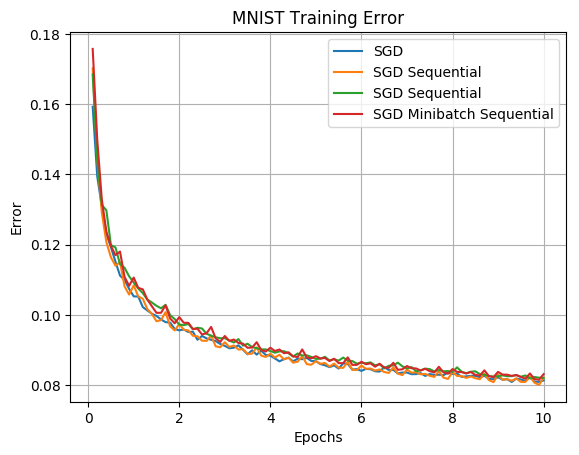
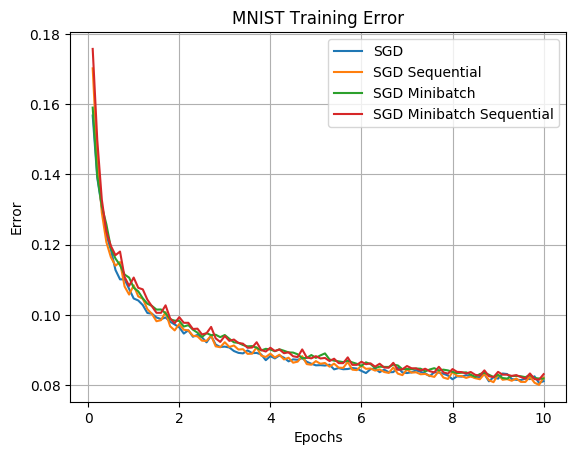
Modified plots

Changed region(s): [[0.1865, 0.4923, 0.9326, 0.8615], [0.1554, 0.1846, 0.1865, 0.4923], [0.6839, 0.1846, 0.8394, 0.2154]]

diff --git a/main.py b/main.py
@@ -187,7 +187,7 @@ if __name__ == "__main__":
     sgd_mini_seq = lambda : sgd_minibatch_sequential_scan(Xs_tr, Ys_tr, gamma, W0, alpha_m, batch_size, num_epochs, monitor_period_m)
 
     algos = [sgd, sgd_seq, sgd_mini, sgd_mini_seq]
-    names = ["SGD", "SGD Sequential", "SGD Minibatch", "SGD Minibatch Sequential"]
+    names = ["SGD Random", "SGD Sequential", "SGD Minibatch", "SGD Minibatch Sequential"]
     models = []
 
     for algo, name in zip(algos, names):
@@ -202,51 +202,50 @@ if __name__ == "__main__":
 
     t = .1 * np.arange(len(models[0])) + .1
 
-    # plot training error as a function of epochs
-    pyplot.figure(1)
-    pyplot.xlabel('Epochs')
-    pyplot.ylabel('Error')
-    pyplot.title('MNIST Training Error')
-    pyplot.grid(True)
-    for name, error in zip(names,model_error_tr):
-        pyplot.plot(t, error, label=name)
-    pyplot.gca().legend()
-    pyplot.savefig('training.png', bbox_inches='tight')
-    # plot test error as a function of epochs
-    pyplot.figure(2)
-    pyplot.xlabel('Epochs')
-    pyplot.ylabel('Error')
-    pyplot.title('MNIST Test Error')
-    pyplot.grid(True)
-    for name, error in zip(names,model_error_te):
-        pyplot.plot(t, error, label=name)
-    pyplot.gca().legend()
-    pyplot.savefig('test.png', bbox_inches='tight')
+    ''' Plot the model error for the models, whose respective names are given by [names].
+        Save the image by the name [title].png and inlude [title] in the figure title '''
+    def plot_error(model_error, names, title):
+        pyplot.figure(np.random.randint(1000))
+        pyplot.xlabel('Epochs')
+        pyplot.ylabel('Error')
+        pyplot.title('MNIST '+title+' Error')
+        pyplot.grid(True)
+        for name, error in zip(names,model_error):
+            pyplot.plot(t, error, label=name)
+        pyplot.gca().legend()
+        pyplot.savefig(title+'.png', bbox_inches='tight')
 
+    # plot training error as a function of epochs
+    plot_error(model_error_tr, names, "Training")
+    # plot test error as a function of epochs
+    plot_error(model_error_te, names, "Test")
+
+    ''' Time the algorightms in [algos], whose respective names are given by [names],
+        by averaging the runtime of the algorithm over 5 runs. 
+        PreC :The algorithms must be lambdas that take no inputs '''
     def time_algos(names, algos):
         times = []
-        for algo, name in zip(names,algos):
+        for name, algo in zip(names,algos):
             time = 0
             for _ in range(5):
                 time -= timeit.default_timer()
                 _ = algo()
                 time += timeit.default_timer()
             times.append(time/5)
+            print(name,time/5,"s")
         return times
 
     # Make plots for the average runtimes
     times = time_algos(names, algos)
-
-    names = ('Full', 'Subsample 1000', 'Subsample 100')
     x_positions = np.arange(len(names))
 
-    # plot runtime for training
+    # plot runtime for training as a bar graph
     pyplot.figure(3)
     pyplot.bar(x_positions, times, align='center', alpha=0.5)
-    pyplot.xticks(x_positions, names)
+    pyplot.xticks(x_positions, [name[4:] for name in names])
     pyplot.ylabel('Average runtime (per model)')
     pyplot.xlabel('Models')
     pyplot.title('Runtime of Training - SGD')
-    for i, v in enumerate(performance_tr):
-        pyplot.text(i-.25, v * (1.01), " " + str(round(v,5)), color='black', va='center', fontweight='bold')
+    for i, v in enumerate(times):
+        pyplot.text(i-.25, v * (1.015), " " + str(round(v,2)), color='black', va='center', fontweight='bold')
     pyplot.savefig('train_time.png', bbox_inches='tight')
